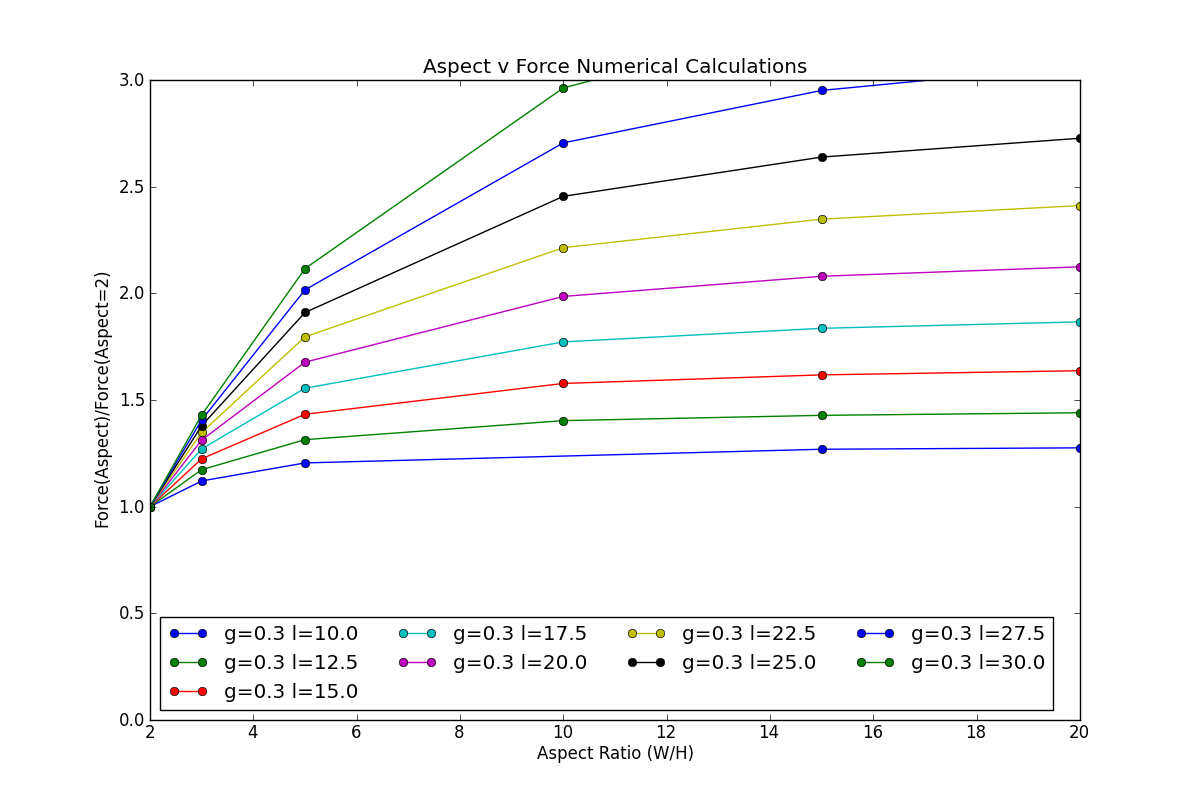
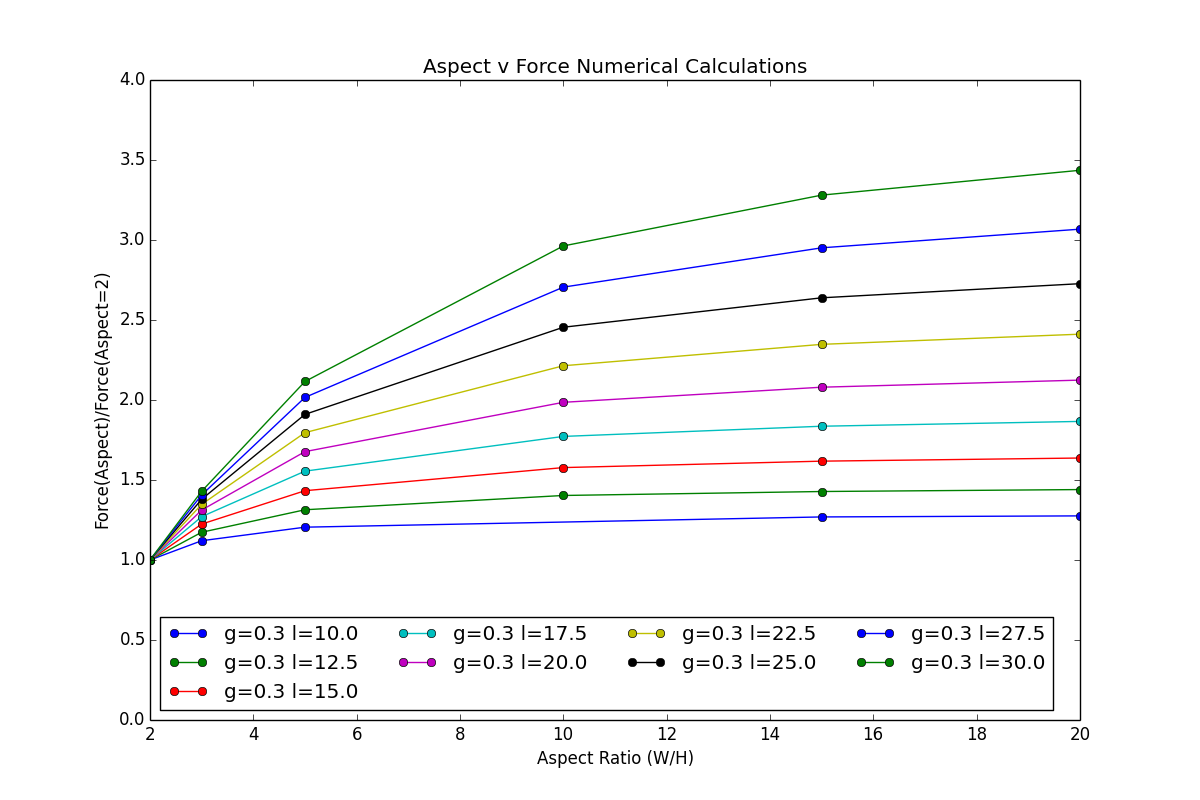
adding plots

diff --git a/casimir/scuffCode/CubeSphereAspect/width.py b/casimir/scuffCode/CubeSphereAspect/width.py
@@ -76,6 +76,6 @@ xlabel('Aspect Ratio (W/H)')
 ylabel('Force(Aspect)/Force(Aspect=2)')
 title('Aspect v Force Numerical Calculations')
 legend(loc="lower left",ncol=4)
-ylim(0,3.0)
+ylim(0,4.0)
 savefig('aspect_correction.png')
 #show()
